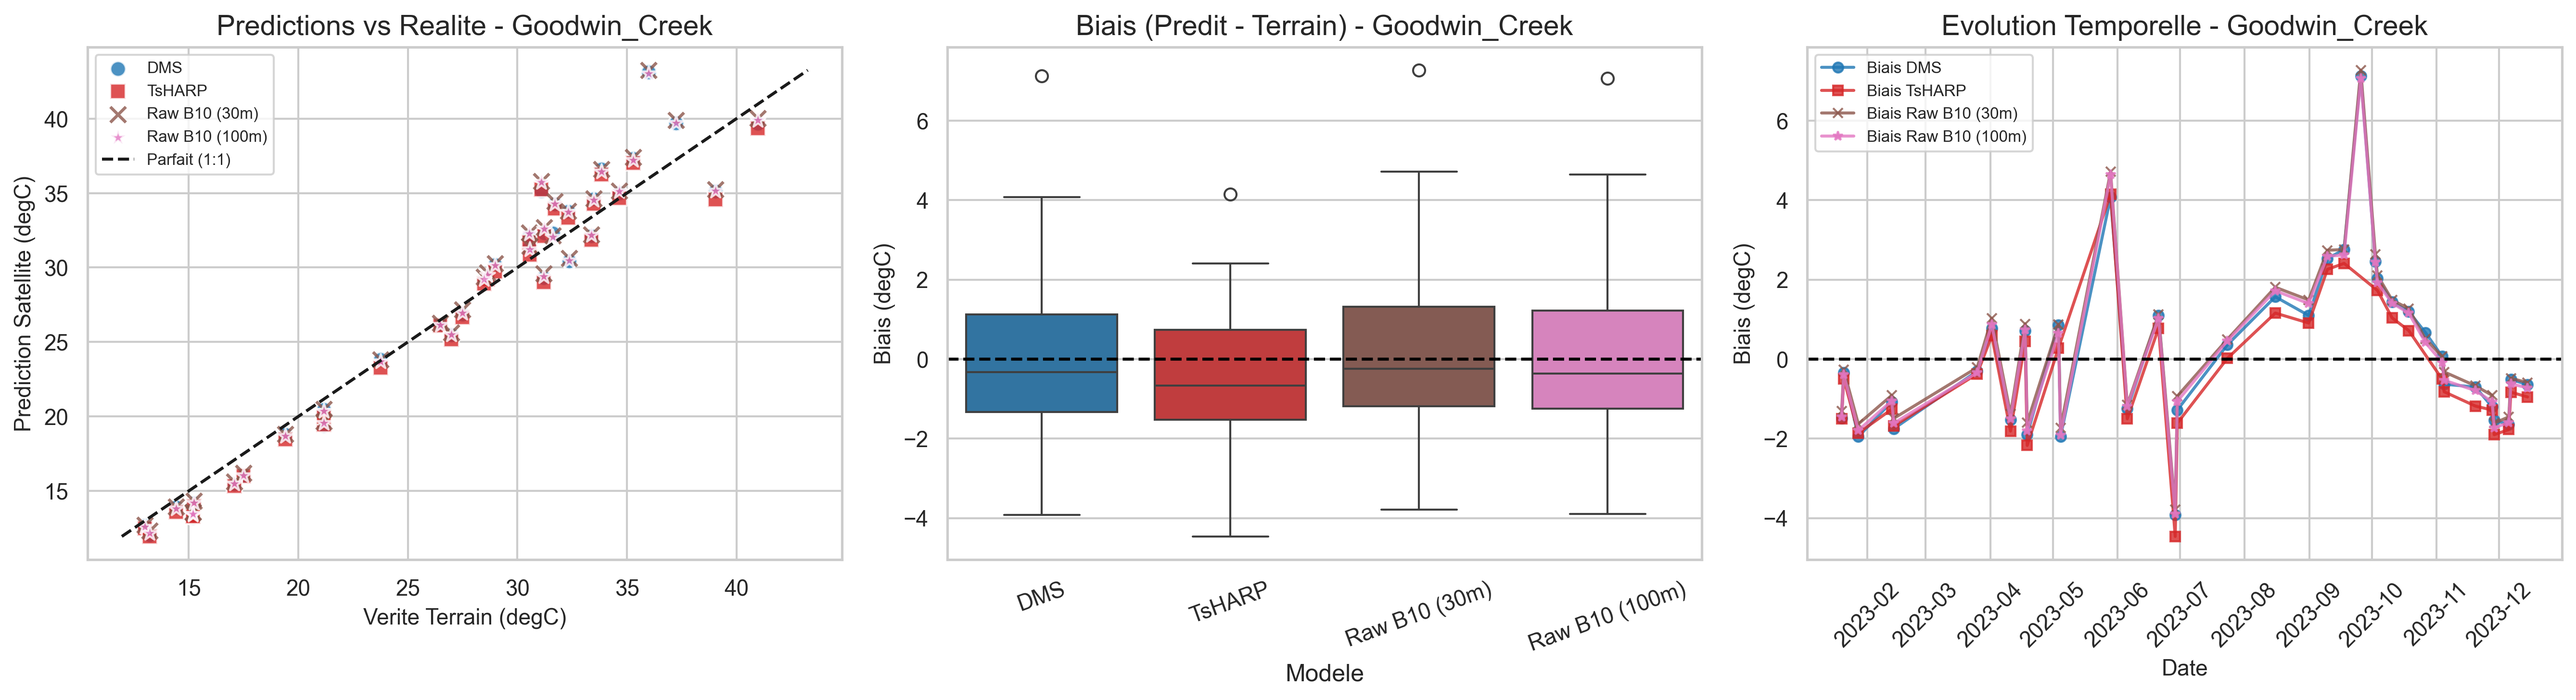
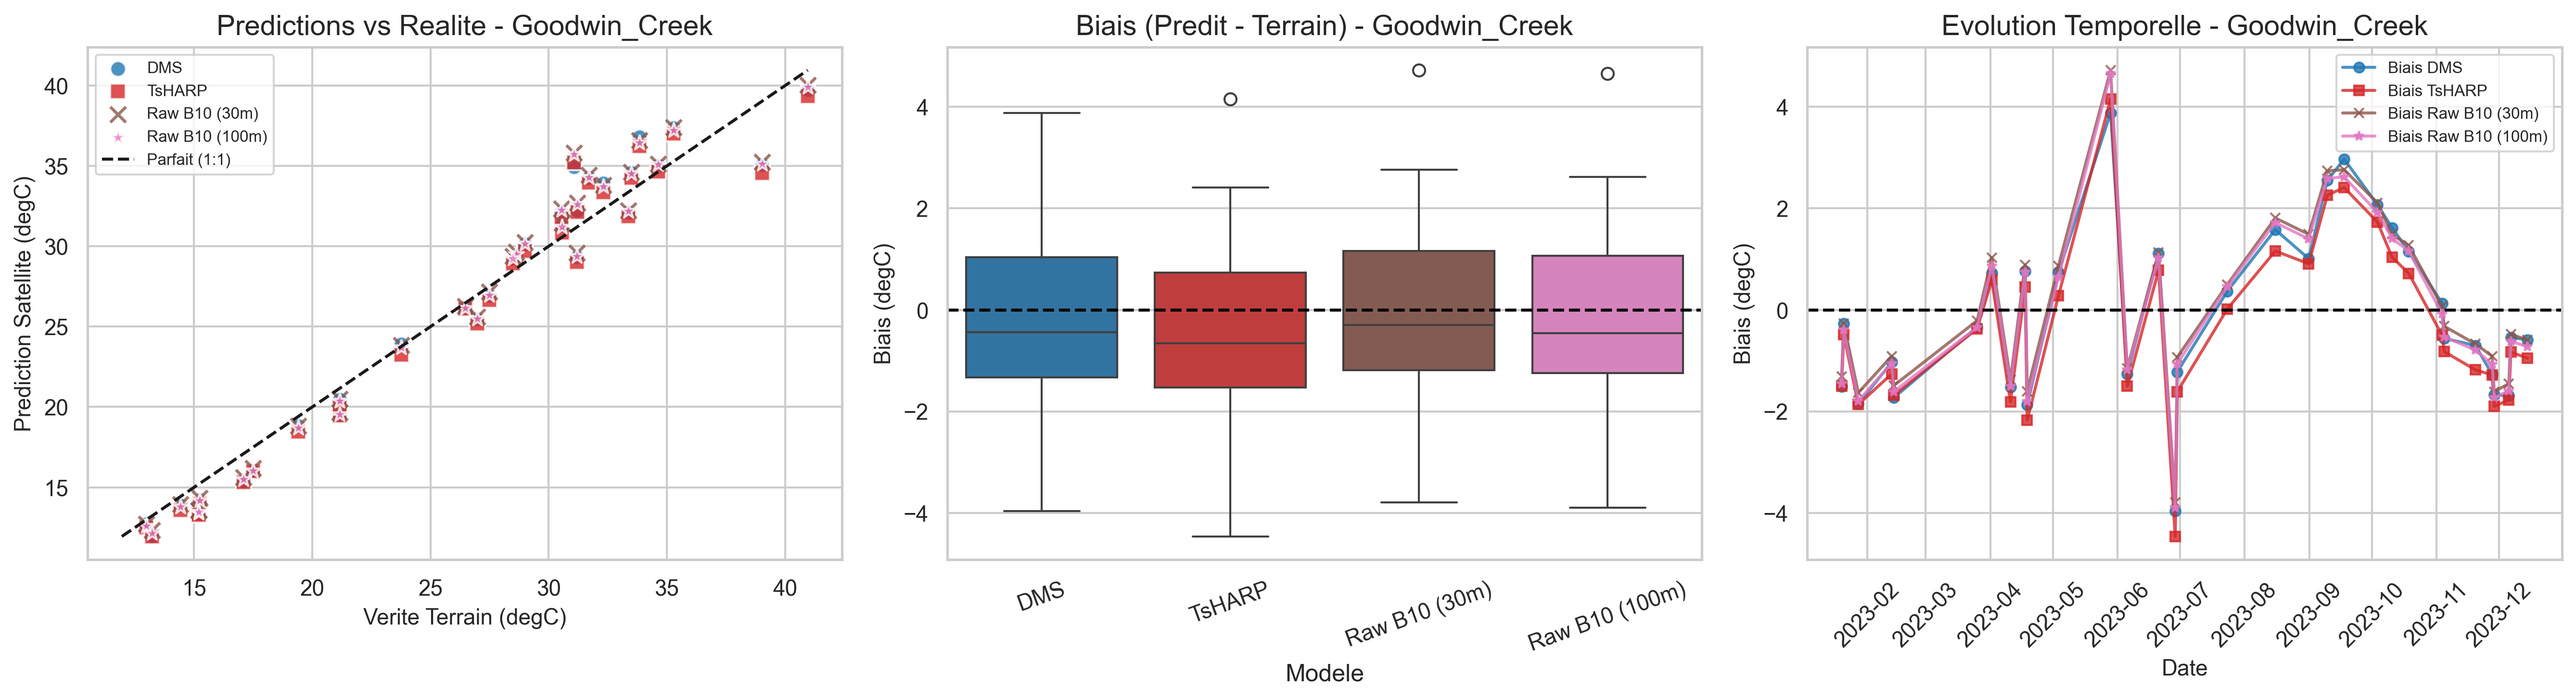
feat: implement DMS sharpening logic with spatial homogeneity filtering and update performance visualization to ensure consistent data comparison.

diff --git a/Transform/Landsat/dms_sharpening_landsat.py b/Transform/Landsat/dms_sharpening_landsat.py
@@ -17,9 +17,8 @@ import json
 
 # --- CONFIGURATION BASE ---
 DOSSIER_BASE = r"Outputs"
-n_estimators = 1000
-max_depth = 65
-min_samples_split = 33
+n_estimators = 100
+max_depth = 10
 min_samples_leaf = 1
 max_features = 1.0
 
@@ -169,14 +168,14 @@ def process_dms_for_image(nom_site, date_str, dossier_indices):
         masque_valide_90m &= np.isfinite(X_matrice_90m[:, i])
 
 # --- NOUVEAUTÉ : Le filtrage par homogénéité ---
-    LOGGER.info("   🧹 Sélection des pixels d'entraînement (Seuil de pureté : < 20% de variance)...")
+    LOGGER.info("   🧹 Sélection des pixels d'entraînement (Seuil de pureté : < 50% de variance)...")
     
     # CORRECTION ICI : On crée un dictionnaire temporaire sans les coordonnées 
     # pour ne pas fausser le calcul de la variance interne
     X_dict_pour_masque = {k: v for k, v in X_dict_30m.items() if k not in ['Coord_X', 'Coord_Y']}
     
     # On calcule le masque uniquement sur les variables physiques
-    masque_homogene_1d = calculate_homogeneity_mask(X_dict_pour_masque, threshold=0.20)
+    masque_homogene_1d = calculate_homogeneity_mask(X_dict_pour_masque, threshold=0.50)
 
     # On combine les deux conditions : Le pixel doit être sans NaN ET homogène
     masque_final_entrainement = masque_valide_90m & masque_homogene_1d

diff --git a/visualisation_performances.py b/visualisation_performances.py
@@ -57,6 +57,11 @@ existing_pred_cols = [c for c in pred_cols if c in df.columns]
 df_valid = df.dropna(subset=['Ground_LST (°C)']).copy()
 df_valid = df_valid[df_valid[existing_pred_cols].notna().any(axis=1)]
 
+# Forcer DMS et TsHARP à utiliser exactement les mêmes points pour être comparables
+cols_base = [c for c in ['LST_Sat_DMS (°C)', 'LST_Sat_TsHARP (°C)'] if c in df_valid.columns]
+if len(cols_base) > 1:
+    df_valid = df_valid.dropna(subset=cols_base)
+
 # Filtrage par intervalle de temps
 if 'Date_Satellite' in df_valid.columns:
     df_valid['Date_Satellite'] = pd.to_datetime(df_valid['Date_Satellite'])
